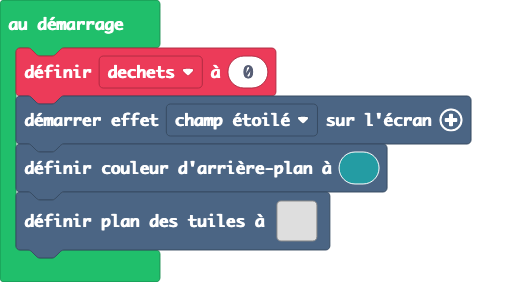
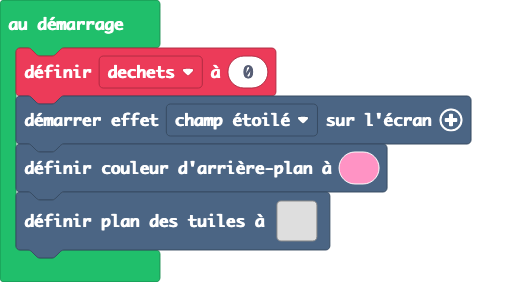
Mise à jour main.blocks, main.ts, main.py

Changed region(s): [[0.6424, 0.539, 0.7342, 0.6525]]

diff --git a/main.ts b/main.ts
@@ -1,4 +1,4 @@
 let dechets = 0
 effects.starField.startScreenEffect()
-scene.setBackgroundColor(6)
+scene.setBackgroundColor(3)
 tiles.setTilemap(tilemap`niveau1`)

diff --git a/main.py b/main.py
@@ -1,6 +1,6 @@
 dechets = 0
 effects.star_field.start_screen_effect()
-#Couleur du fond:
-scene.set_background_color(8)
-
-tiles.set_tilemap(tilemap("""niveau1"""))
+scene.set_background_color(6)
+tiles.set_tilemap(tilemap("""
+    niveau1
+"""))
